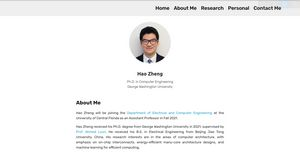
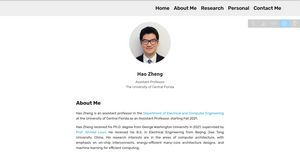
ucf1.8

diff --git a/index.html b/index.html
@@ -68,7 +68,7 @@
     </nav>
 </section>
 
-<section class="engine"><a href="https://mobirise.info/w">html5 templates</a></section><section class="carousel slide testimonials-slider cid-sGDIEH06Dl" data-interval="false" id="testimonials-slider1-1c">
+<section class="engine"><a href="https://mobirise.info/p">web templates free download</a></section><section class="carousel slide testimonials-slider cid-sGDIEH06Dl" data-interval="false" id="testimonials-slider1-1c">
     
     
 
@@ -89,7 +89,7 @@
 
                         <div class="user_name mbr-bold pb-2 mbr-fonts-style display-5">
                             Hao Zheng</div>
-                        <div class="user_desk mbr-light mbr-fonts-style display-7">Ph.D. in Computer Engineering<div>George Washington University</div></div>
+                        <div class="user_desk mbr-light mbr-fonts-style display-7"><div>Assistant Professor</div><div>The University of Central Florida</div></div>
                     </div>
                     
 
@@ -116,7 +116,7 @@
 
     <div class="container">
         <div class="media-container-row">
-            <div class="mbr-text col-12 mbr-fonts-style display-7 col-md-8"><p><span style="font-size: 25px;"><strong>About Me</strong></span></p><p>Hao Zheng will be joining the <a href="https://www.ece.ucf.edu/">Department of Electrical and Computer Engineering</a> at the University of Central Florida as an Assistant Professor in Fall 2021.&nbsp;</p><p><span style="font-size: 1rem;">Hao Zheng received his Ph.D. degree from George Washington University in 2021, supervised by <a href="https://hpcat.seas.gwu.edu/">Prof. Ahmed Louri</a>. He received his B.S. in Electrical Engineering from Beijing Jiao Tong University, China. His research interests are in the areas of computer architecture, with emphasis on on-chip interconnects, energy-efficient many-core architecture designs, and machine learning for efficient computing.</span><br></p><p><br></p><p style="font-size:25px"><strong>Openings</strong></p><p>Graduate Research Assistantships (GRAs) are available for Ph.D. students to work on several research projects include, but not limited to: machine learning techniques for efficient computing; heterogeneous chiplet-based architectures; application-aware reconfigurable manycore architectures; graph processing and neural network accelerators.&nbsp;</p><p>If you are interested, please send your CV to haozheng.ucf@gmail.com.</p><p><br></p></div>
+            <div class="mbr-text col-12 mbr-fonts-style display-7 col-md-8"><p><span style="font-size: 25px;"><strong>About Me</strong></span></p><p>Hao Zheng is an assistant professor in the <a href="https://www.ece.ucf.edu/">Department of Electrical and Computer Engineering</a> at the University of Central Florida as an Assistant Professor, starting Fall 2021.&nbsp;</p><p><span style="font-size: 1rem;">Hao Zheng received his Ph.D. degree from George Washington University in 2021, supervised by <a href="https://hpcat.seas.gwu.edu/">Prof. Ahmed Louri</a>. He received his B.S. in Electrical Engineering from Beijing Jiao Tong University, China. His research interests are in the areas of computer architecture, with emphasis on on-chip interconnects, energy-efficient many-core architecture designs, and machine learning for efficient computing.</span><br></p><p><br></p><p style="font-size:25px"><strong>Openings</strong></p><p>Graduate Research Assistantships (GRAs) are available for Ph.D. students to work on several research projects include, but not limited to: machine learning techniques for efficient computing; heterogeneous chiplet-based architectures; application-aware reconfigurable manycore architectures; graph processing and neural network accelerators.&nbsp;</p><p>If you are interested, please send your CV to haozheng.ucf@gmail.com.</p><p><br></p></div>
         </div>
     </div>
 </section>
@@ -196,7 +196,7 @@
     <div class="container">
         <div class="row">
             <div class="col-md-6">
-                <div class="google-map"><iframe frameborder="0" style="border:0" src="https://www.google.com/maps/embed/v1/place?key=AIzaSyA0Dx_boXQiwvdz8sJHoYeZNVTdoWONYkU&amp;q=place_id:ChIJf5Hhn7G3t4kRK-1SJOaEtZA" allowfullscreen=""></iframe></div>
+                <div class="google-map"><iframe frameborder="0" style="border:0" src="https://www.google.com/maps/embed/v1/place?key=AIzaSyA0Dx_boXQiwvdz8sJHoYeZNVTdoWONYkU&amp;q=place_id:ChIJ9-xYxFxo54gRRkO_a54OYlw" allowfullscreen=""></iframe></div>
             </div>
             <div class="col-md-6">
                 
@@ -212,7 +212,7 @@
                 </div>
                 <div data-form-type="formoid">
                     <!---Formbuilder Form--->
[2 lines of base64/hex data omitted]
                         <div class="row">
                             <div hidden="hidden" data-form-alert="" class="alert alert-success col-12">Thanks for filling out the form!</div>
                             <div hidden="hidden" data-form-alert-danger="" class="alert alert-danger col-12">

diff --git a/page1.html b/page1.html
@@ -69,32 +69,7 @@
     </nav>
 </section>
 
-<section class="engine"><a href="https://mobirise.info/z">best website templates</a></section><section class="header6 cid-rjvwtSss8q mbr-fullscreen mbr-parallax-background" id="header6-i">
-
-    
-
-    <div class="mbr-overlay" style="opacity: 0.5; background-color: rgb(35, 35, 35);">
-    </div>
-
-    <div class="container">
-        <div class="row justify-content-md-center">
-            <div class="mbr-white col-md-10">
-                <h1 class="mbr-section-title align-center mbr-bold pb-3 mbr-fonts-style display-1">
-                    Personal</h1>
-                <p class="mbr-text align-center pb-3 mbr-fonts-style display-5">I am Hao, a pet lover.<br>I was born in Wenzhou and raised  in Shenzhen.<br>I love my parents and fiancée, and thank for their unconditional supports.<br>I am grateful to have lots of excellent friends who bring me beautiful memories.<br>It is my honor to have a wonderful academic advisor and life mentor.&nbsp;<br><br><br>Thank you all !<br><br></p><br><br><p>"The best way to flourish is to retain an amateur's spirit and embrace uncertainty and &nbsp;the unknown."<br>&nbsp;&nbsp;&nbsp;&nbsp;&nbsp;&nbsp;&nbsp;&nbsp;&nbsp;&nbsp;&nbsp;&nbsp;&nbsp;&nbsp;&nbsp;&nbsp;&nbsp;&nbsp;&nbsp;&nbsp;&nbsp;&nbsp;&nbsp;&nbsp;&nbsp;&nbsp;&nbsp;&nbsp;&nbsp;&nbsp;&nbsp;&nbsp;&nbsp;&nbsp;&nbsp;&nbsp;&nbsp;&nbsp;&nbsp;&nbsp;&nbsp;&nbsp;&nbsp;&nbsp;&nbsp;&nbsp;&nbsp;&nbsp;&nbsp;&nbsp;&nbsp;&nbsp;&nbsp;&nbsp;&nbsp;&nbsp;&nbsp;&nbsp;&nbsp;&nbsp;&nbsp;&nbsp;&nbsp;&nbsp;&nbsp;&nbsp;&nbsp;&nbsp;&nbsp;&nbsp;&nbsp;&nbsp;&nbsp;&nbsp;&nbsp;&nbsp;&nbsp;&nbsp;&nbsp;&nbsp;&nbsp;&nbsp;&nbsp;&nbsp;&nbsp;&nbsp;&nbsp;&nbsp;&nbsp;&nbsp;&nbsp;&nbsp;&nbsp;&nbsp;&nbsp;&nbsp;&nbsp;&nbsp;&nbsp;&nbsp;&nbsp;&nbsp;&nbsp;&nbsp;&nbsp;&nbsp;&nbsp;&nbsp;&nbsp;&nbsp;&nbsp;&nbsp;&nbsp;&nbsp;&nbsp;&nbsp;&nbsp;&nbsp;&nbsp;&nbsp;&nbsp;&nbsp;&nbsp;&nbsp;&nbsp;&nbsp;&nbsp;&nbsp;&nbsp;&nbsp;&nbsp;&nbsp;&nbsp;&nbsp;&nbsp;&nbsp;&nbsp;&nbsp;&nbsp;&nbsp;&nbsp;&nbsp;&nbsp;&nbsp;&nbsp;&nbsp;&nbsp;&nbsp;&nbsp;&nbsp;&nbsp;&nbsp;&nbsp;&nbsp;&nbsp;&nbsp;&nbsp;&nbsp;&nbsp;&nbsp;&nbsp;&nbsp;&nbsp;&nbsp;&nbsp;&nbsp;&nbsp;&nbsp;&nbsp;&nbsp;&nbsp;&nbsp;&nbsp;&nbsp;&nbsp;&nbsp;&nbsp;&nbsp;&nbsp;&nbsp;&nbsp; &nbsp; --- Austin Kleon<br></p>
-                
-            </div>
-        </div>
-    </div>
-
-    <div class="mbr-arrow hidden-sm-down" aria-hidden="true">
-        <a href="#next">
-            <i class="mbri-down mbr-iconfont"></i>
-        </a>
-    </div>
-</section>
-
-<section class="mbr-section content4 cid-rjvCNc9mDV" id="content4-o">
+<section class="engine"><a href="https://mobirise.info/h">create a web page</a></section><section class="mbr-section content4 cid-rjvCNc9mDV" id="content4-o">
 
     
 
@@ -139,7 +114,6 @@
   <script src="assets/dropdown/js/nav-dropdown.js"></script>
   <script src="assets/dropdown/js/navbar-dropdown.js"></script>
   <script src="assets/tether/tether.min.js"></script>
-  <script src="assets/parallax/jarallax.min.js"></script>
   <script src="assets/vimeoplayer/jquery.mb.vimeo_player.js"></script>
   <script src="assets/bootstrapcarouselswipe/bootstrap-carousel-swipe.js"></script>
   <script src="assets/touchswipe/jquery.touch-swipe.min.js"></script>

diff --git a/page3.html b/page3.html
@@ -69,7 +69,7 @@
 </section>
 
 
-  <section class="engine"><a href="https://mobirise.info/w">html5 templates</a></section><script src="assets/web/assets/jquery/jquery.min.js"></script>
+  <section class="engine"><a href="https://mobirise.info/v">free html templates</a></section><script src="assets/web/assets/jquery/jquery.min.js"></script>
   <script src="assets/popper/popper.min.js"></script>
   <script src="assets/bootstrap/js/bootstrap.min.js"></script>
   <script src="assets/tether/tether.min.js"></script>

diff --git a/page2.html b/page2.html
@@ -69,7 +69,7 @@
 </section>
 
 
-  <section class="engine"><a href="https://mobirise.info">Mobirise</a></section><script src="assets/web/assets/jquery/jquery.min.js"></script>
+  <section class="engine"><a href="https://mobirise.info/s">free bootstrap theme</a></section><script src="assets/web/assets/jquery/jquery.min.js"></script>
   <script src="assets/popper/popper.min.js"></script>
   <script src="assets/bootstrap/js/bootstrap.min.js"></script>
   <script src="assets/tether/tether.min.js"></script>

diff --git a/assets/mobirise/css/mbr-additional.css b/assets/mobirise/css/mbr-additional.css
@@ -1745,12 +1745,9 @@ section.lazy-placeholder:after {
 .cid-rjv3yyZnbB .dropdown-item:hover {
   color: #767676 !important;
 }
-.cid-rjvwtSss8q {
-  background-image: url("../../../assets/images/mbr-1-1920x1280.jpg");
-}
 .cid-rjvCNc9mDV {
-  padding-top: 60px;
-  padding-bottom: 30px;
+  padding-top: 120px;
+  padding-bottom: 45px;
   background-color: #ffffff;
 }
 .cid-rjvCNc9mDV .mbr-section-subtitle {
